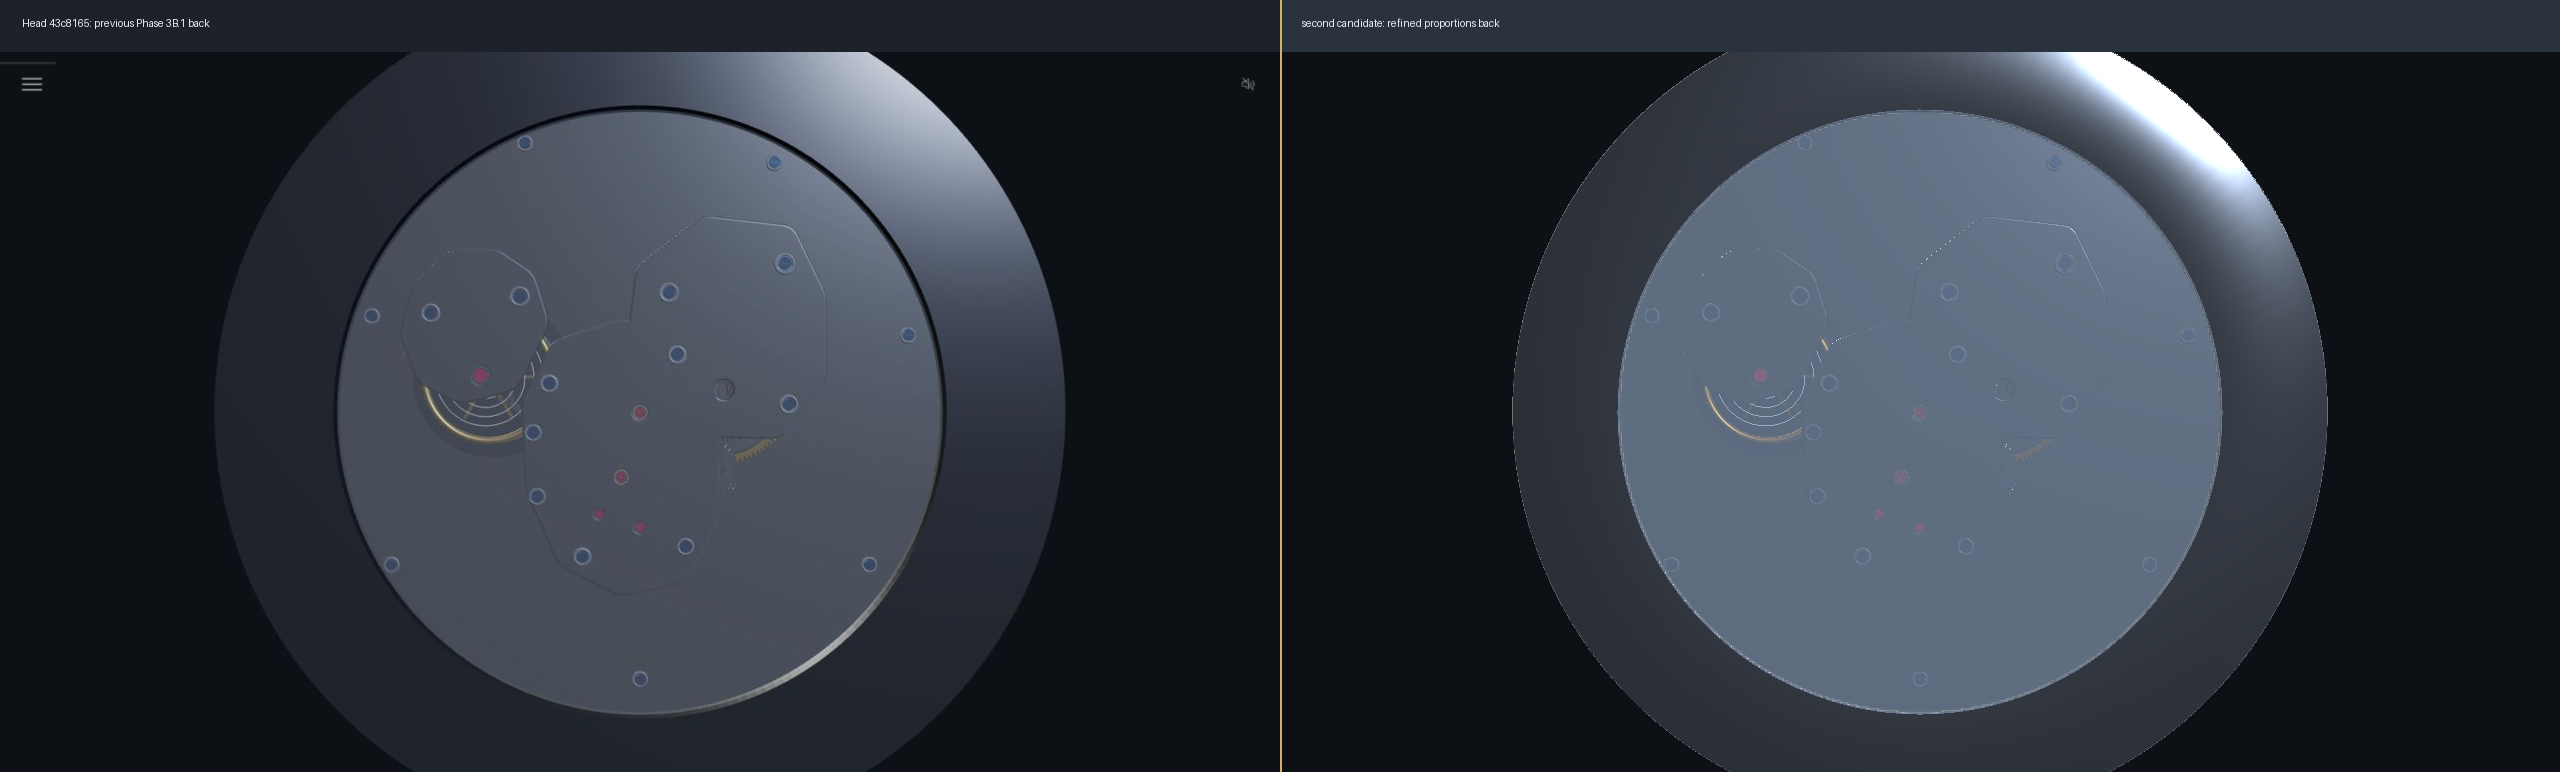
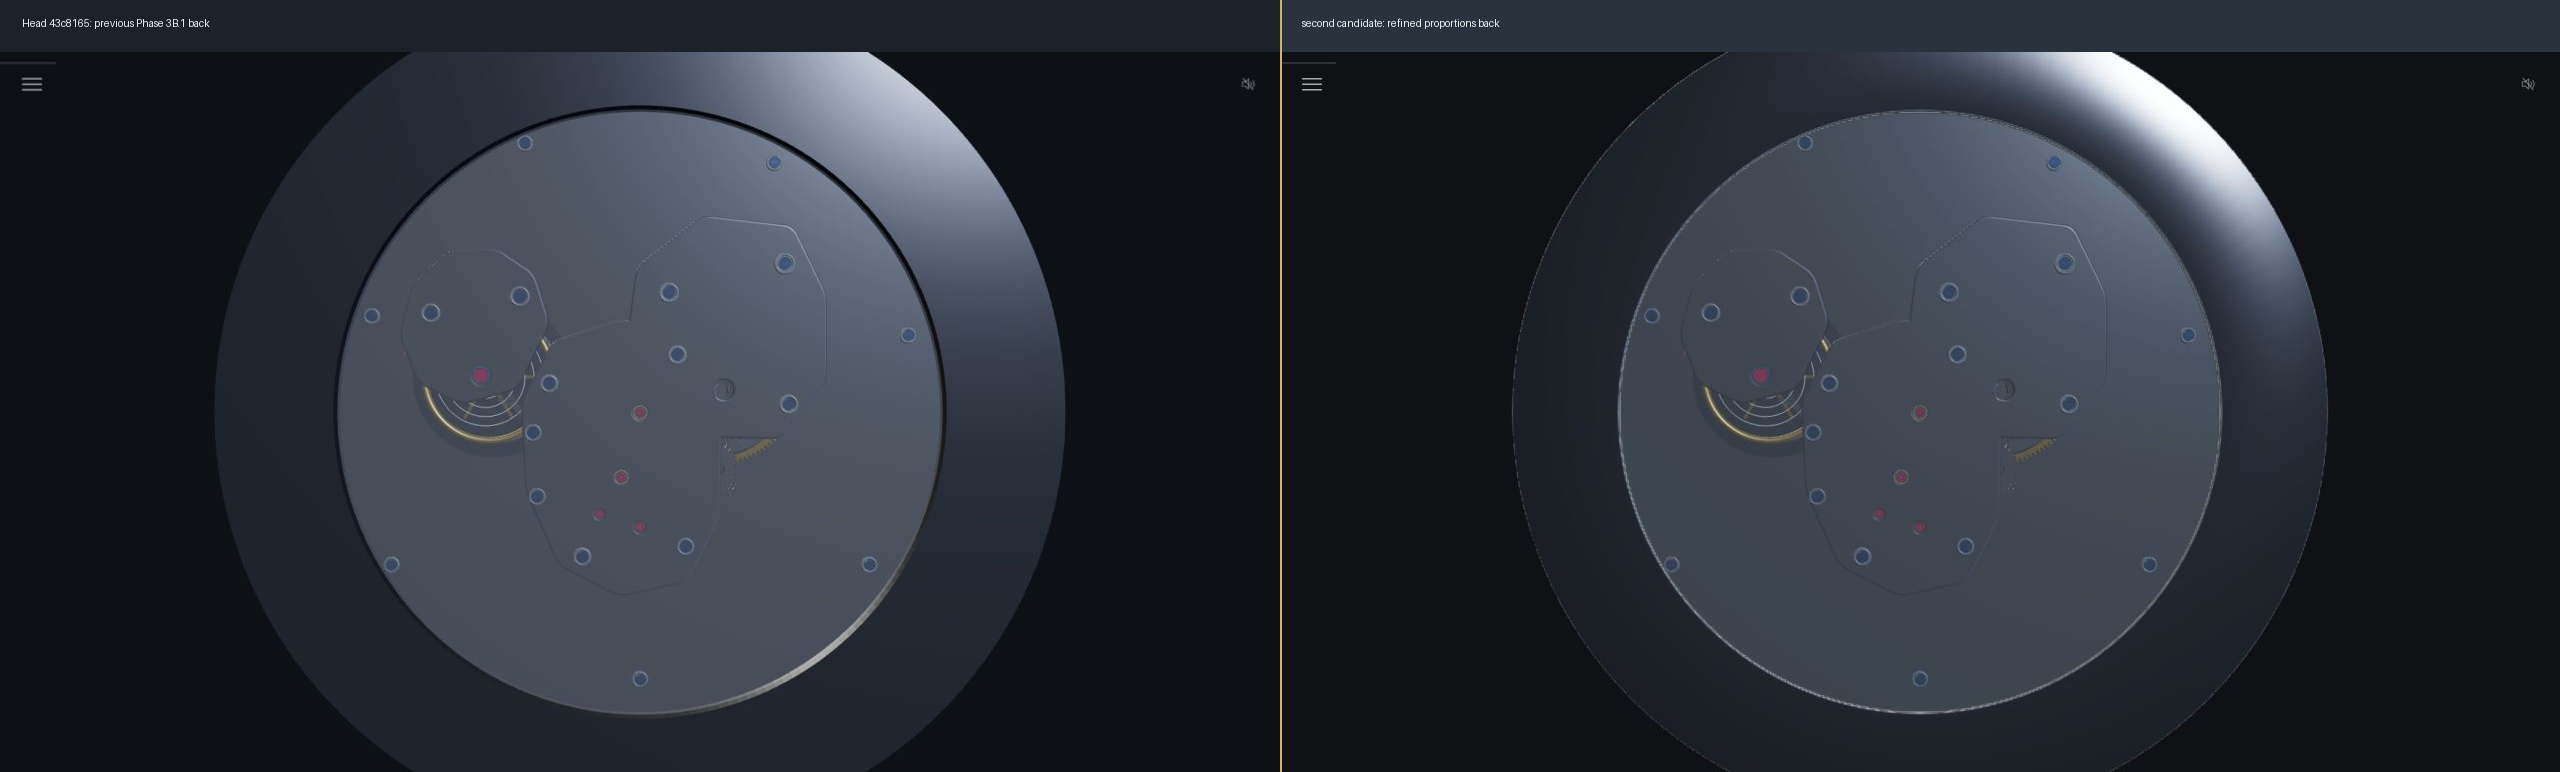
Align Phase 3B.1 comparison framing

diff --git a/tests/generate-phase3b1-silhouette-evidence.py b/tests/generate-phase3b1-silhouette-evidence.py
@@ -275,6 +275,22 @@ def main() -> None:
         evidence / "before-second-desktop-back.png",
         DESKTOP_SIZE,
     )
+    live_second_front = load_rgb(
+        evidence / "live-second-desktop-front.png",
+        DESKTOP_SIZE,
+    )
+    live_second_oblique = load_rgb(
+        evidence / "live-second-desktop-oblique-front.png",
+        DESKTOP_SIZE,
+    )
+    live_second_side = load_rgb(
+        evidence / "live-second-desktop-side.png",
+        DESKTOP_SIZE,
+    )
+    live_second_back = load_rgb(
+        evidence / "live-second-desktop-back.png",
+        DESKTOP_SIZE,
+    )
     current_back = load_rgb(evidence / "desktop-back.png", DESKTOP_SIZE)
 
     save_png(board(
@@ -303,10 +319,15 @@ def main() -> None:
     ), evidence / "case-body-profile-before-after-oblique-front.png")
 
     for name, before, after, view in (
-        ("front", before_second_front, current_front, "front"),
-        ("oblique-front", before_second_oblique, current_oblique, "oblique front"),
-        ("side", before_second_side, current_side, "side"),
-        ("back", before_second_back, current_back, "back"),
+        ("front", before_second_front, live_second_front, "front"),
+        (
+            "oblique-front",
+            before_second_oblique,
+            live_second_oblique,
+            "oblique front",
+        ),
+        ("side", before_second_side, live_second_side, "side"),
+        ("back", before_second_back, live_second_back, "back"),
     ):
         save_png(board(
             before,

diff --git a/docs/evidence/final-exterior-balanced-phase3b1/README.md b/docs/evidence/final-exterior-balanced-phase3b1/README.md
@@ -10,7 +10,7 @@
 - captureMode：same-origin unsandboxed iframe harness + actual in-app Browser Three.js WebGLRenderTarget PNG
 - candidate：E-BALANCED / `IMPLEMENTATION_CANDIDATE_NOT_DEFAULT`
 
-画像は`tests/final-exterior-phase3b1-harness.html`から同一origin・sandboxなしのiframeへ実アプリを読み込み、実際のThree.js WebGL表示をPNGとして取得した。比較ボード左側の固定mainは開始SHAを同じ`127.0.0.1:8000`ルートから別実行し、既存dimension harnessの1280×720 iframe領域を無加工で切り出した。右側は同一条件のE-BALANCED query候補である。
+画像は`tests/final-exterior-phase3b1-harness.html`から同一origin・sandboxなしのiframeへ実アプリを読み込み、実際のThree.js WebGL表示をPNGとして取得した。第2候補A/BはHead 43c8165と新候補をともに1280×720のライブ画面、同一時刻・テーマ・camera presetで取得し、UIを含む同じフレーミング方式へ統一した。固定main／query候補のpixel-exact確認と測定用raw画像は同じWebGLRenderTarget方式を使用する。
 
 ## 画像
 
@@ -35,6 +35,10 @@
 | `main-baseline-side.png` | 固定main側面 | 1280×720 |
 | `before-profile-desktop-side.png` | 旧一定半径ケース胴の固定Head実画面 | 1280×720 |
 | `before-profile-desktop-oblique-front.png` | 旧一定半径ケース胴の正面斜視 | 1280×720 |
+| `live-second-desktop-front.png` | 第2候補の同一フレーミング正面実画面 | 1280×720 |
+| `live-second-desktop-oblique-front.png` | 第2候補の同一フレーミング斜め正面実画面 | 1280×720 |
+| `live-second-desktop-side.png` | 第2候補の同一フレーミング側面実画面 | 1280×720 |
+| `live-second-desktop-back.png` | 第2候補の同一フレーミング裏面実画面 | 1280×720 |
 | `baseline-vs-balanced-front.png` | 固定mainと候補の正面A/B | 2560×772 |
 | `baseline-vs-balanced-side.png` | 固定mainと候補の側面A/B | 2560×772 |
 | `case-body-profile-before-after-side.png` | 旧外形／新外形の側面A/B | 2560×772 |
